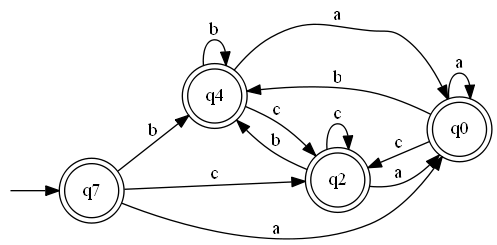
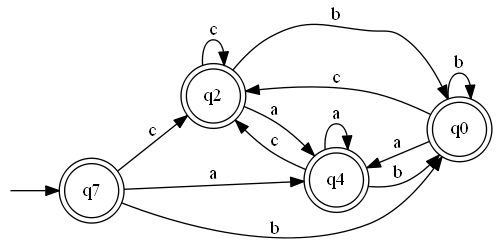
Connect YAFP.py

diff --git a/package/fileManagement.py b/package/fileManagement.py
@@ -1,11 +1,10 @@
 import sys
 import re
-import Automata
+import package.Automata
 import os
 
 
-def open_File():
-    name_file = sys.argv[1]
+def open_File(name_file):
     file = open(name_file, encoding="utf8")
     return file
 
@@ -15,11 +14,14 @@ def close_file(file):
 
 
 def create_file():
-    file = open("../Analyzer.py", "w")
+    file = open("Analyzer.py", "w")
     return file
 
 
-def analizer_Code(file, AFD, startState, nodesAutomata):
+def analizer_Code(file, AFD, startState, nodesAutomata, Functions, newFunctions):
+    for function in Functions.keys():
+        file.write("\n \n" + Functions[function])
+
     file.write(""" 
 
 def automata_Search(AFD, startState, nodesAutomata, word):
@@ -55,17 +57,30 @@ def main():
     word = list(map(str, word))
 
     result = automata_Search(AFD, startState, nodesAutomata, word)
-    print(result)
 
-main()
-"""
-               )
+    if result:
+""")
+    for function in Functions.keys():
+        file.write("        " + function + "\n")
+
+    file.write("""
+    else:
+        print(result)
+
+""")
+    for function in newFunctions:
+        file.write("    " + function + "\n")
+    
+    file.write("""
+while True:
+    main()
+""")
 
 
-def generate_Code():
+def generate_Code(name_file):
     token = "(O_O¬)\n"
 
-    file_input = open_File()
+    file_input = open_File(name_file)
     if file_input.readline() != token:
         file_input.close()
         print("The file should start with " + token)
@@ -74,6 +89,9 @@ def generate_Code():
     file_output = create_file()
     file_output.write("import sys \n")
     ERs = []
+    Functions = {}
+    newFunctions = []
+    countFuntions = 0
 
     counter = 0
     for line in file_input:
@@ -82,24 +100,36 @@ def generate_Code():
         elif line != token and counter == 2:
             line = line.strip('\n')
             line = re.split('[\s]+', line)
-            ERs.append(line[0])
+            if len(line) == 3:
+                ERs.append(line[1])
+                nameFunction = line[0] + "_Print()"
+                function = "def " + nameFunction + ":\n     " + line[2]
+                Functions[nameFunction] = function
+            else:
+                ERs.append(line[0])
+                nameFunction = "id" + str(countFuntions) + "_Print()"
+                function = "def " + nameFunction + ":\n     " + line[1]
+                Functions[nameFunction] = function
         elif line != token and counter == 3:
+            if "def" in line:
+                thisLine = re.split('[\s]+', line)
+                newFunctions.append(thisLine[1].strip(":"))
             file_output.write(line)
         else:
             counter += 1
-    
+
     if counter < 2:
+        
         file_input.close()
         file_output.close()
-        os.remove("../Analyzer.py")
-        print ("The file does not contain regular expressions")
+        os.remove("Analyzer.py")
+        print("The file does not contain regular expressions")
         return
 
-    AFD, startState, nodesAutomata = Automata.makeAutomata(ERs)
-    analizer_Code(file_output, AFD, startState, nodesAutomata)
+    AFD, startState, nodesAutomata = package.Automata.makeAutomata(ERs)
+    analizer_Code(file_output, AFD, startState,
+                  nodesAutomata, Functions, newFunctions)
 
     file_input.close()
     file_output.close()
 
-
-generate_Code()

diff --git a/package/Automata.py b/package/Automata.py
@@ -1,6 +1,6 @@
 import sys
 import graphviz as graph
-import Parse_Tree
+import package.Parse_Tree
 
 def make_link_AFNe(G, node1, node2, token):
     if node1 not in G:
@@ -54,7 +54,7 @@ def drawAFN(G, startState, nodesAutomata, nombre_archivo):
                 g2.node(node2, _attributes={"shape": "circle"})
             for _label_ in G[node1][node2]:
                 g2.edge(str(node1), str(node2), label=_label_)
-    filename = g2.render(filename='../graphs/automatas/' + nombre_archivo)
+    filename = g2.render(filename='graphs/automatas/' + nombre_archivo)
 
 
 def drawAFNe(G, startState, nodesAutomata, nombre_archivo):
@@ -80,7 +80,7 @@ def drawAFNe(G, startState, nodesAutomata, nombre_archivo):
                 g2.node(str(node2))
                 g2.node(node2, _attributes={"shape": "circle"})
             g2.edge(str(node1), str(node2), label=G[node1][node2])
-    filename = g2.render(filename='../graphs/automatas/' + nombre_archivo)
+    filename = g2.render(filename='graphs/automatas/' + nombre_archivo)
 
 
 def delete_limboState(AFN, startNode, nodesAutomata):
@@ -340,7 +340,7 @@ def select_transition(AFN_e, Tree, node, nodesAutomata, state, startState):
 def makeAutomata(ERs):
     
     for ER in ERs:
-        Tree, alphabet = Parse_Tree.parseTree(ER)
+        Tree, alphabet = package.Parse_Tree.parseTree(ER)
         AFN_e = {}
         nodesAutomata = {}
 

diff --git a/Analyzer.py b/Analyzer.py
@@ -1,11 +1,11 @@
 import sys 
 import math
-def test():
-    print("test is ok")
-    pass
+def testFunction():
+    print("hello YAFP!")
 
-def secondTest():
-    print("Its alrigth dude") 
+ 
+def id0_Print():
+     print('is_a_number') 
 
 def automata_Search(AFD, startState, nodesAutomata, word):
     isAcepted = False
@@ -29,14 +29,22 @@ def automata_Search(AFD, startState, nodesAutomata, word):
 
 def main():
           
-    AFD = {'q4': {'q4': ['b'], 'q2': ['c'], 'q0': ['a']}, 'q0': {'q4': ['b'], 'q2': ['c'], 'q0': ['a']}, 'q2': {'q4': ['b'], 'q2': ['c'], 'q0': ['a']}, 'q7': {'q4': ['b'], 'q2': ['c'], 'q0': ['a']}}
+    AFD = {'q2': {'q4': ['a'], 'q2': ['c'], 'q0': ['b']}, 'q0': {'q4': ['a'], 'q2': ['c'], 'q0': ['b']}, 'q4': {'q4': ['a'], 'q2': ['c'], 'q0': ['b']}, 'q7': {'q4': ['a'], 'q2': ['c'], 'q0': ['b']}}
     startState = 'q7'
-    nodesAutomata = {'q4': True, 'q0': True, 'q2': True, 'q7': True}
+    nodesAutomata = {'q2': True, 'q0': True, 'q4': True, 'q7': True}
 
     word = sys.stdin.readline().strip('\n')
     word = list(map(str, word))
 
     result = automata_Search(AFD, startState, nodesAutomata, word)
-    print(result)
 
-main()
+    if result:
+        id0_Print()
+
+    else:
+        print(result)
+
+    testFunction()
+
+while True:
+    main()

diff --git a/YAFP.py b/YAFP.py
@@ -3,10 +3,12 @@ Main of the proyect
 All the creation of objects and his interaction should be created here
 Other files contains modules in their respective folders
 """
-from package import fileManagement as fm
+import sys
+import package.fileManagement
 
 def YAFP():
-    fm.readStructure('input.txt', 'output.txt', '(⌐■_■)')
+    name_file = sys.argv[1]
+    package.fileManagement.generate_Code(name_file)
 
 YAFP()
     
